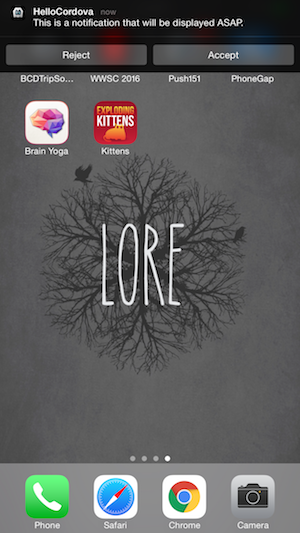
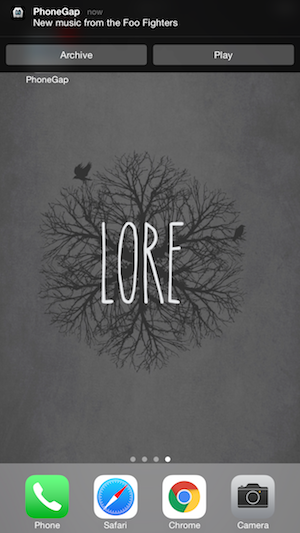
Fix old screenshots

diff --git a/module6.md b/module6.md
@@ -58,7 +58,7 @@ This lesson will take you through the steps required in order to setup "action b
 
    **For iOS**            
 
-        phonegap push --deviceID APA91bE1MmeTc92igNoi5OkDWUV --service apns --payload '{ "aps": { "alert": { "title": "New Music", "message": "New music from the Foo Fighters" }, "category": "newmusic" } }'
+        phonegap push --deviceID APA91bE1MmeTc92igNoi5OkDWUV --service apns --payload '{ "aps": { "alert": { "title": "New Music", "body": "New music from the Foo Fighters" }, "category": "newmusic" } }'
 
    This should produce the following push notifications. On Android you may have to swipe down on the notification to reveal the buttons while on iOS you'll need to swipe down or swipe left on the notification to reveal the buttons depending on where you are viewing the notification.
 
